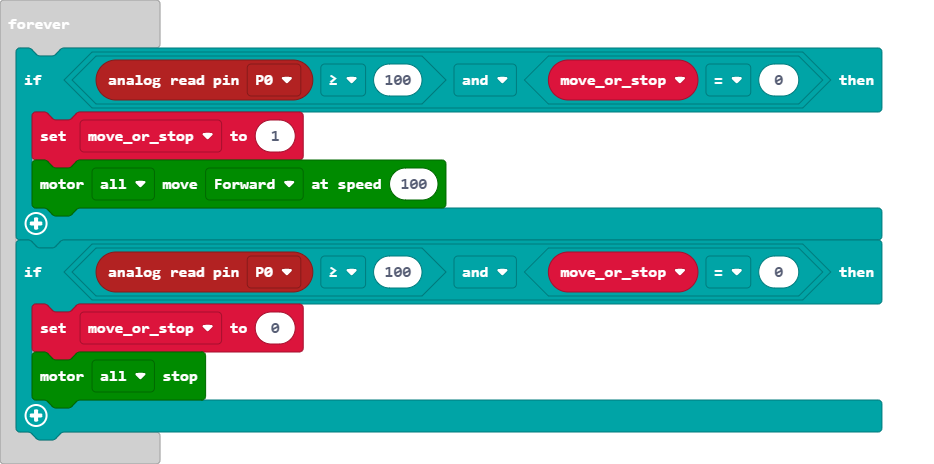
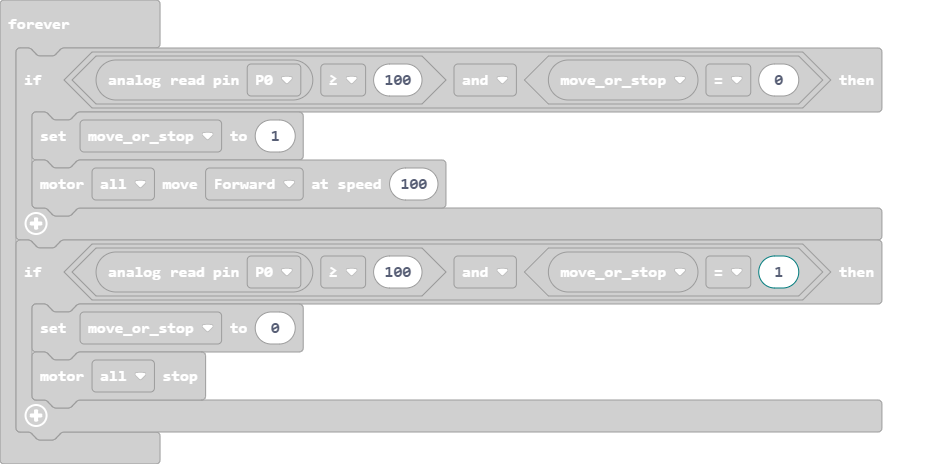
Update main.blocks, main.ts

diff --git a/main.ts b/main.ts
@@ -4,7 +4,7 @@ basic.forever(function () {
         move_or_stop = 1
         maqueen.motorRun(maqueen.Motors.All, maqueen.Dir.CW, 100)
     }
-    if (pins.analogReadPin(AnalogPin.P0) >= 100 && move_or_stop == 0) {
+    if (pins.analogReadPin(AnalogPin.P0) >= 100 && move_or_stop == 1) {
         move_or_stop = 0
         maqueen.motorStop(maqueen.Motors.All)
     }
